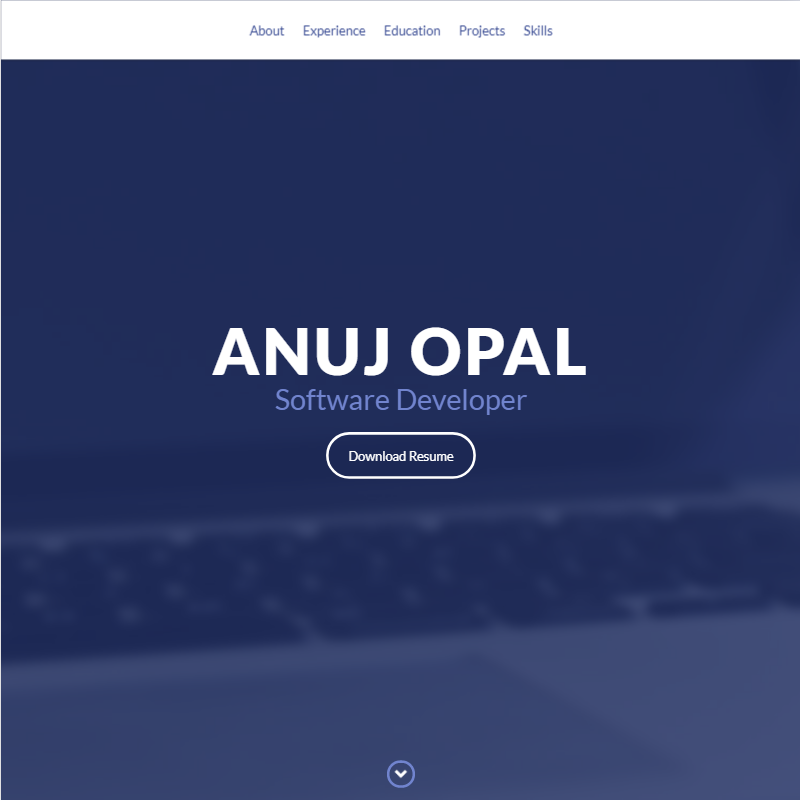
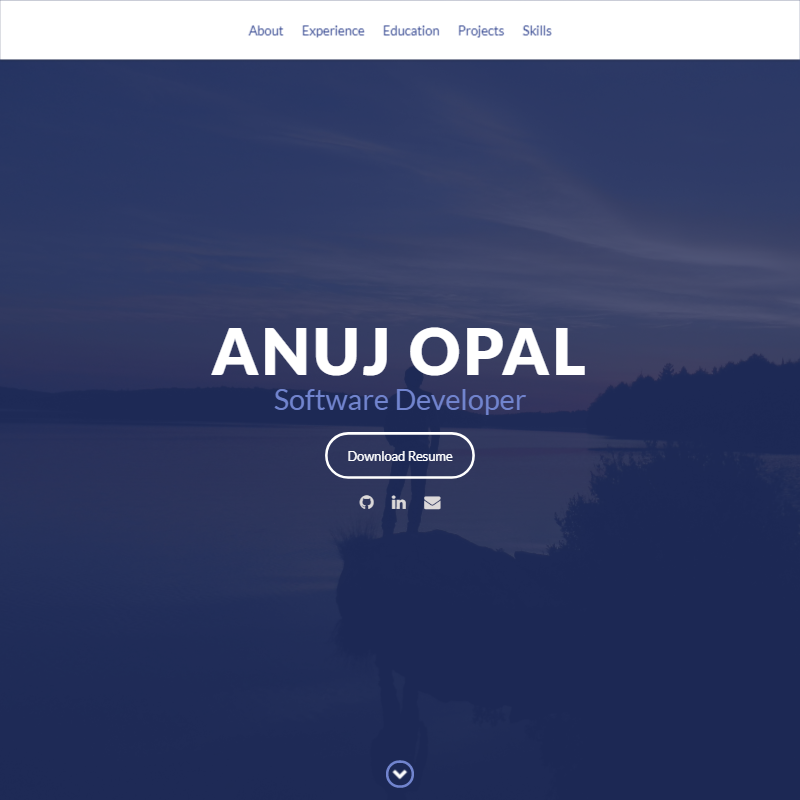
some more content and styles

diff --git a/css/styles.css b/css/styles.css
@@ -9,4 +9,4 @@
     Description: This file contains all the styles associated with the page
     that don't come from third party libraries. This file gets compiled using
     Gulp and send to the /css folder which is then loaded on the page.
-*/body{font-family:'Lato', sans-serif;font-size:16px}body.active{overflow:hidden;z-index:-1}.no-js #experience-timeline>div{background:#fff;padding:10px;margin-bottom:10px;border:1px solid #dcd9d9}.no-js #experience-timeline>div h3{font-size:1.5em;font-weight:300;color:#374054;display:inline-block;margin:0}.no-js #experience-timeline>div h4{font-size:1.2em;font-weight:300;color:#7e8890;margin:0 0 15px}.no-js #experience-timeline>div p{color:#74808a;font-size:0.9em;margin:0}.no-js #experience-timeline:after,.no-js #experience-timeline:before{content:none}@keyframes dropHeader{0%{transform:translateY(-100%)}100%{transform:translateY(0)}}header{position:fixed;top:0;left:0;right:0;text-align:center;z-index:100;animation-name:dropHeader;animation-iteration-count:1;animation-timing-function:ease;animation-duration:0.75s}header ul{display:inline-block;background:#fff;text-align:center;padding:1em;margin:0;width:100%;height:10%}header li{display:inline-block}header .social{display:inline-block}header a{display:block;color:#31448f;padding:10px}header a:hover{color:#243269;text-decoration:none;background:#eee;border-radius:4px}header a:focus{color:#31448f;text-decoration:none}header.active{display:block}header.sticky{position:fixed;z-index:999}#menu.active{display:block}#mobile-menu-open{display:none;cursor:pointer;position:fixed;right:15px;top:10px;color:#31448f;font-size:1.5em;z-index:20;padding:0 7px;border-radius:4px;background:#fff}#mobile-menu-close{display:none;text-align:right;width:100%;background:#fff;font-size:1.5em;padding-right:15px;padding-top:10px;cursor:pointer;color:#31448f}#mobile-menu-close span{font-size:0.5em;text-transform:uppercase}#mobile-menu-close i{vertical-align:middle}footer{padding:50px 0}.copyright{padding-top:20px}.copyright p{margin:0;color:#74808a}.top{text-align:center}.top span{cursor:pointer;display:block;margin:15px auto 0;width:35px;height:35px;border-radius:50%;border:3px solid #b9bfc4;text-align:center}.top i{color:#74808a}.social{text-align:right}.social ul{margin:5px 0 0;padding:0}.social li{display:inline-block;font-size:1.25em;list-style:none}.social a{display:block;color:#74808a;padding:10px}.social a:hover{color:#31448f}.btn-rounded-white{display:inline-block;color:#fff;padding:15px 25px;border:3px solid #fff;border-radius:30px;transition:.5s ease all}.btn-rounded-white:hover{color:#31448f;background:#fff;text-decoration:none}.shadow{box-shadow:0 1px 3px rgba(0,0,0,0.12),0 1px 2px rgba(0,0,0,0.24)}.shadow-large{box-shadow:0 3px 6px rgba(0,0,0,0.08),0 3px 6px rgba(0,0,0,0.15)}.heading{position:relative;display:inline-block;font-size:2em;font-weight:300;margin:0 0 30px}.heading:after{position:absolute;content:'';top:100%;height:1px;width:50px;left:0;right:0;margin:0 auto;background:#31448f}.background-alt{background:#f2f2f5}#lead{position:relative;height:100vh;min-height:500px;max-height:1080px;background:url("../images/lead-bg.jpg");background-size:cover;padding:15px;overflow:hidden}#lead-content{position:absolute;z-index:10;top:50%;left:50%;transform:translate(-50%, -50%);text-align:center}#lead-content h1,#lead-content h2{margin:0}#lead-content h1{color:#fff;font-weight:900;font-size:5em;text-transform:uppercase;letter-spacing:0.05em;line-height:0.9em}#lead-content h2{color:#7184ce;font-weight:500;font-size:2.25em;margin-bottom:15px}#lead-overlay{position:absolute;height:100%;width:100%;top:0;right:0;bottom:0;left:0;background:rgba(36,50,105,0.8);z-index:1}#lead-down{position:absolute;left:0;right:0;width:100%;text-align:center;z-index:10;bottom:15px;color:#fff}#lead-down span{cursor:pointer;display:block;margin:0 auto;width:35px;height:35px;border-radius:50%;border:3px solid #7184ce;text-align:center}#lead-down i{animation:pulsate 1.5s ease;animation-iteration-count:infinite;padding-top:5px}@keyframes pulsate{0%{transform:scale(1, 1)}50%{transform:scale(1.2, 1.2)}100%{transform:scale(1, 1)}}#about{padding:75px 15px;border-bottom:1px solid #dcd9d9}#about h2{color:#374054}#about p{color:#74808a;margin:0}#experience{padding:50px 15px;text-align:center;border-bottom:1px solid #dcd9d9}#experience h2{color:#374054}#experience-timeline{margin:30px auto 0;position:relative;max-width:1000px}#experience-timeline:before{position:absolute;content:'';top:0;bottom:0;left:303px;right:auto;height:100%;width:3px;background:#31448f;z-index:0}#experience-timeline:after{position:absolute;content:'';width:3px;height:40px;background:#31448f;background:linear-gradient(to bottom, #31448f, rgba(49,68,143,0));top:100%;left:303px}.vtimeline-content{margin-left:350px;background:#fff;border:1px solid #e6e6e6;padding:15px;border-radius:3px;text-align:left}.vtimeline-content img{width:10%;position:relative;float:right;top:-5px}.vtimeline-content h3{font-size:1.5em;font-weight:300;color:#374054;display:inline-block;margin:0}.vtimeline-content h4{font-size:1.2em;font-weight:300;color:#7e8890;margin:0 0 15px}.vtimeline-content p{color:#74808a;font-size:0.9em;margin:0}.vtimeline-point{position:relative;display:block;vertical-align:top;margin-bottom:30px}.vtimeline-icon{position:relative;color:#fff;width:50px;height:50px;background:#31448f;border-radius:50%;float:left;z-index:99;margin-left:280px}.vtimeline-icon i{display:block;font-size:2em;margin-top:10px}.vtimeline-date{width:260px;text-align:right;position:absolute;left:0;top:10px;font-weight:300;color:#374054}#education{padding:50px 15px 20px;border-bottom:1px solid #dcd9d9;text-align:center}#education h2{color:#374054;margin-bottom:50px}.education-block{max-width:700px;margin:0 auto 30px;padding:15px;border:1px solid #dcd9d9;text-align:left}.education-block h3{font-weight:500;float:left;margin:0;color:#374054}.education-block span{color:#74808a;float:right}.education-block h4{color:#74808a;clear:both;font-weight:500;margin:0 0 15px}.education-block p,.education-block ul{margin:0;color:#74808a;font-size:0.9em}.education-block ul{padding:0 0 0 15px}#projects{padding:50px 15px;border-bottom:1px solid #dcd9d9;text-align:center}#projects h2{color:#374054;margin-bottom:50px}.project{position:relative;max-width:900px;margin:0 auto 30px;overflow:hidden;background:#fff;border-radius:4px}.project-image{float:left}.project-image img{height:300px;width:300px}.project-info{position:absolute;top:50%;transform:translateY(-50%);margin-left:300px;padding:15px}.project-info h3{font-size:1.5em;font-weight:300;color:#374054;margin:0 0 15px}.project-info p{color:#74808a;margin:0 0 15px;font-size:0.9em}.no-image .project-info{position:relative;margin:0;padding:30px 15px;transform:none}#more-projects{display:none}#skills{padding:50px 15px;text-align:center}#skills h2{color:#374054;margin-bottom:50px}#skills ul{display:block;margin:0 auto;padding:0;max-width:800px}#skills li{display:inline-block;margin:7px;padding:5px 10px;color:#374054;background:#e4e4ea;list-style:none;cursor:default;font-size:1.2em}#contact{padding:50px 15px;background:#31448f;text-align:center}#contact h2{margin:0 0 15px;color:#fff;font-weight:500}#contact-form{max-width:500px;margin:0 auto}#contact-form input,#contact-form textarea{display:block;width:100%;padding:10px;border-radius:4px;border:none;margin-bottom:10px;background:#1d2956;color:#fff;transition:.5s ease all}#contact-form input::-webkit-input-placeholder,#contact-form textarea::-webkit-input-placeholder{color:#fff}#contact-form input:-moz-placeholder,#contact-form textarea:-moz-placeholder{color:#fff;opacity:1}#contact-form input::-moz-placeholder,#contact-form textarea::-moz-placeholder{color:#fff;opacity:1}#contact-form input:-ms-input-placeholder,#contact-form textarea:-ms-input-placeholder{color:#fff}#contact-form input:focus,#contact-form textarea:focus{outline:none;background:#101730}#contact-form textarea{height:150px;resize:none}#contact-form button{display:block;width:100%;background:#fff;border-radius:4px;padding:5px 10px;border:none;color:#31448f;font-weight:700;box-shadow:0 1px 3px rgba(0,0,0,0.12),0 1px 2px rgba(0,0,0,0.24);transition:.5s ease all}#contact-form button:hover{box-shadow:0 10px 20px rgba(0,0,0,0.19),0 6px 6px rgba(0,0,0,0.23)}.optional-section{padding:50px 15px;text-align:center;border-top:1px solid #dcd9d9}.optional-section h2{color:#374054}.optional-section-block{max-width:700px;margin:0 auto 30px;padding:15px;border:1px solid #dcd9d9;background:#fff;text-align:left}.optional-section-block h3{font-weight:500;margin:0 0 15px;color:#374054}.optional-section-block h4{color:#74808a;clear:both;font-weight:500;margin:0 0 15px}.optional-section-block p,.optional-section-block ul{margin:0 0 15px;color:#74808a;font-size:0.9em}.optional-section-block ul{padding:0 0 0 15px}@media only screen and (max-width: 750px){#experience-timeline:after,#experience-timeline:before{left:23px}.vtimeline-date{width:auto;text-align:left;position:relative;margin-bottom:15px;display:block;margin-left:70px}.vtimeline-icon{margin-left:0}.vtimeline-content{margin-left:70px}}@media only screen and (max-width: 992px){#lead{height:auto;min-height:auto;max-height:auto;padding:100px 15px}#lead-content{position:relative;transform:none;left:auto;top:auto}#lead-content h1{font-size:3em}#lead-content h2{font-size:1.75em}#about{text-align:center}#about p{text-align:left}}@media only screen and (max-width: 768px){header{position:fixed;display:none;z-index:999;animation:none;bottom:0;height:100%}#mobile-menu-close,#mobile-menu-open{display:block}#menu{height:100%;overflow-y:auto;box-shadow:none;border-radius:0;width:100%}#menu li{display:block;margin-bottom:10px}#lead-content h1{font-size:2em}#lead-content h2{font-size:1.3em}#lead-content a{padding:10px 20px}#lead-down{display:none}.education-block h3,.education-block span{float:none}.project-image{display:none}.project-info{position:relative;margin:0;padding:30px 15px;top:auto;transform:none}footer{text-align:center}.social{text-align:center}}@media only screen and (max-width: 480px){#lead-content h1{font-size:1.5em}#lead-content h2{font-size:1em}#lead-content a{font-size:0.9em;padding:5px 10px}}
+*/body{font-family:'Lato', sans-serif;font-size:16px}body.active{overflow:hidden;z-index:-1}.no-js #experience-timeline>div{background:#fff;padding:10px;margin-bottom:10px;border:1px solid #dcd9d9}.no-js #experience-timeline>div h3{font-size:1.5em;font-weight:300;color:#374054;display:inline-block;margin:0}.no-js #experience-timeline>div h4{font-size:1.2em;font-weight:300;color:#7e8890;margin:0 0 15px}.no-js #experience-timeline>div p{color:#74808a;font-size:0.9em;margin:0}.no-js #experience-timeline:after,.no-js #experience-timeline:before{content:none}@keyframes dropHeader{0%{transform:translateY(-100%)}100%{transform:translateY(0)}}header{position:fixed;top:0;left:0;right:0;text-align:center;z-index:100;animation-name:dropHeader;animation-iteration-count:1;animation-timing-function:ease;animation-duration:0.75s}header ul{display:inline-block;background:#fff;text-align:center;padding:1em;margin:0;width:100%;height:10%}header li{display:inline-block}header .social{display:inline-block}header a{display:block;color:#31448f;padding:10px}header a:hover{color:#243269;text-decoration:none;background:#eee;border-radius:4px}header a:focus{color:#31448f;text-decoration:none}header.active{display:block}header.sticky{position:fixed;z-index:999}#menu.active{display:block}#mobile-menu-open{display:none;cursor:pointer;position:fixed;right:15px;top:10px;color:#31448f;font-size:1.5em;z-index:20;padding:0 7px;border-radius:4px;background:#fff}#mobile-menu-close{display:none;text-align:right;width:100%;background:#fff;font-size:1.5em;padding-right:15px;padding-top:10px;cursor:pointer;color:#31448f}#mobile-menu-close span{font-size:0.5em;text-transform:uppercase}#mobile-menu-close i{vertical-align:middle}footer{padding:50px 0}.copyright{padding-top:20px}.copyright p{margin:0;color:#74808a}.top{text-align:center}.top span{cursor:pointer;display:block;margin:15px auto 0;width:35px;height:35px;border-radius:50%;border:3px solid #b9bfc4;text-align:center}.top i{color:#74808a}.social{text-align:right}.social ul{margin:5px 0 0;padding:0}.social li{display:inline-block;font-size:1.25em;list-style:none}.social a{display:block;color:#74808a;padding:10px}.social a:hover{color:#31448f}.btn-rounded-white{display:inline-block;color:#fff;padding:15px 25px;border:3px solid #fff;border-radius:30px;transition:.5s ease all}.btn-rounded-white:hover{color:#31448f;background:#fff;text-decoration:none}.shadow{box-shadow:0 1px 3px rgba(0,0,0,0.12),0 1px 2px rgba(0,0,0,0.24)}.shadow-large{box-shadow:0 3px 6px rgba(0,0,0,0.08),0 3px 6px rgba(0,0,0,0.15)}.heading{position:relative;display:inline-block;font-size:2em;font-weight:300;margin:0 0 30px}.heading:after{position:absolute;content:'';top:100%;height:1px;width:50px;left:0;right:0;margin:0 auto;background:#31448f}.background-alt{background:#f2f2f5}#lead{position:relative;height:100vh;min-height:500px;max-height:1080px;background:url("../images/lead.jpg");background-size:cover;padding:15px;overflow:hidden;top:-10%;background-attachment:fixed;background-repeat:no-repeat;background-size:cover}#lead-content{position:absolute;z-index:10;top:50%;left:50%;transform:translate(-50%, -50%);text-align:center}#lead-content h1,#lead-content h2{margin:0}#lead-content h1{color:#fff;font-weight:900;font-size:5em;text-transform:uppercase;letter-spacing:0.05em;line-height:0.9em}#lead-content h2{color:#7184ce;font-weight:500;font-size:2.25em;margin-bottom:15px}#lead-content .social{position:absolute;width:100%;text-align:center}#lead-content .social a{color:#dcd9d9}#lead-content .social a:hover{color:#31448f;text-decoration:none}#lead-overlay{position:absolute;height:100%;width:100%;top:0;right:0;bottom:0;left:0;background:rgba(36,50,105,0.8);z-index:1}#lead-down{position:absolute;left:0;right:0;width:100%;text-align:center;z-index:10;bottom:15px;color:#fff}#lead-down span{cursor:pointer;display:block;margin:0 auto;width:35px;height:35px;border-radius:50%;border:3px solid #7184ce;text-align:center}#lead-down i{animation:pulsate 1.5s ease;animation-iteration-count:infinite;padding-top:5px}@keyframes pulsate{0%{transform:scale(1, 1)}50%{transform:scale(1.2, 1.2)}100%{transform:scale(1, 1)}}#about{padding:75px 15px;border-bottom:1px solid #dcd9d9}#about h2{color:#374054}#about p{color:#74808a;margin:0}#experience{padding:50px 15px;text-align:center;border-bottom:1px solid #dcd9d9}#experience h2{color:#374054}#experience-timeline{margin:30px auto 0;position:relative;max-width:1000px}#experience-timeline:before{position:absolute;content:'';top:0;bottom:0;left:303px;right:auto;height:100%;width:3px;background:#31448f;z-index:0}#experience-timeline:after{position:absolute;content:'';width:3px;height:40px;background:#31448f;background:linear-gradient(to bottom, #31448f, rgba(49,68,143,0));top:100%;left:303px}.vtimeline-content{margin-left:350px;background:#fff;border:1px solid #e6e6e6;padding:15px;border-radius:3px;text-align:left}.vtimeline-content img{width:10%;position:relative;float:right;top:-5px}.vtimeline-content h3{font-size:1.5em;font-weight:300;color:#374054;display:inline-block;margin:0}.vtimeline-content h4{font-size:1.2em;font-weight:300;color:#7e8890;margin:0 0 15px}.vtimeline-content p{color:#74808a;font-size:0.9em;margin:0}.vtimeline-point{position:relative;display:block;vertical-align:top;margin-bottom:30px}.vtimeline-icon{position:relative;color:#fff;width:50px;height:50px;background:#31448f;border-radius:50%;float:left;z-index:99;margin-left:280px}.vtimeline-icon i{display:block;font-size:2em;margin-top:10px}.vtimeline-date{width:260px;text-align:right;position:absolute;left:0;top:10px;font-weight:300;color:#374054}#education{padding:50px 15px 20px;border-bottom:1px solid #dcd9d9;text-align:center}#education h2{color:#374054;margin-bottom:50px}.education-block{max-width:700px;margin:0 auto 30px;padding:15px;border:1px solid #dcd9d9;text-align:left}.education-block h3{font-weight:500;float:left;margin:0;color:#374054}.education-block span{color:#74808a;float:right}.education-block h4{color:#74808a;clear:both;font-weight:500;margin:0 0 15px}.education-block p,.education-block ul{margin:0;color:#74808a;font-size:0.9em}.education-block ul{padding:0 0 0 15px}#projects{padding:50px 15px;border-bottom:1px solid #dcd9d9;text-align:center}#projects h2{color:#374054;margin-bottom:50px}.project{position:relative;max-width:900px;margin:0 auto 30px;overflow:hidden;background:#fff;border-radius:4px}.project-image{float:left}.project-image img{height:300px;width:300px}.project-info{position:absolute;top:50%;transform:translateY(-50%);margin-left:300px;padding:15px}.project-info h3{font-size:1.5em;font-weight:300;color:#374054;margin:0 0 15px}.project-info p{color:#74808a;margin:0 0 15px;font-size:0.9em}.no-image .project-info{position:relative;margin:0;padding:30px 15px;transform:none}#more-projects{display:none}#skills{padding:50px 15px;text-align:center}#skills h2{color:#374054;margin-bottom:50px}#skills ul{display:block;margin:0 auto;padding:0;max-width:800px}#skills li{display:inline-block;margin:7px;padding:5px 10px;color:#374054;background:#e4e4ea;list-style:none;cursor:default;font-size:1.2em}#contact{padding:50px 15px;background:#31448f;text-align:center}#contact h2{margin:0 0 15px;color:#fff;font-weight:500}#contact-form{max-width:500px;margin:0 auto}#contact-form input,#contact-form textarea{display:block;width:100%;padding:10px;border-radius:4px;border:none;margin-bottom:10px;background:#1d2956;color:#fff;transition:.5s ease all}#contact-form input::-webkit-input-placeholder,#contact-form textarea::-webkit-input-placeholder{color:#fff}#contact-form input:-moz-placeholder,#contact-form textarea:-moz-placeholder{color:#fff;opacity:1}#contact-form input::-moz-placeholder,#contact-form textarea::-moz-placeholder{color:#fff;opacity:1}#contact-form input:-ms-input-placeholder,#contact-form textarea:-ms-input-placeholder{color:#fff}#contact-form input:focus,#contact-form textarea:focus{outline:none;background:#101730}#contact-form textarea{height:150px;resize:none}#contact-form button{display:block;width:100%;background:#fff;border-radius:4px;padding:5px 10px;border:none;color:#31448f;font-weight:700;box-shadow:0 1px 3px rgba(0,0,0,0.12),0 1px 2px rgba(0,0,0,0.24);transition:.5s ease all}#contact-form button:hover{box-shadow:0 10px 20px rgba(0,0,0,0.19),0 6px 6px rgba(0,0,0,0.23)}.optional-section{padding:50px 15px;text-align:center;border-top:1px solid #dcd9d9}.optional-section h2{color:#374054}.optional-section-block{max-width:700px;margin:0 auto 30px;padding:15px;border:1px solid #dcd9d9;background:#fff;text-align:left}.optional-section-block h3{font-weight:500;margin:0 0 15px;color:#374054}.optional-section-block h4{color:#74808a;clear:both;font-weight:500;margin:0 0 15px}.optional-section-block p,.optional-section-block ul{margin:0 0 15px;color:#74808a;font-size:0.9em}.optional-section-block ul{padding:0 0 0 15px}@media only screen and (max-width: 750px){#experience-timeline:after,#experience-timeline:before{left:23px}.vtimeline-date{width:auto;text-align:left;position:relative;margin-bottom:15px;display:block;margin-left:70px}.vtimeline-icon{margin-left:0}.vtimeline-content{margin-left:70px}}@media only screen and (max-width: 992px){#lead{height:auto;min-height:auto;max-height:auto;padding:100px 15px}#lead-content{position:relative;transform:none;left:auto;top:auto}#lead-content h1{font-size:3em}#lead-content h2{font-size:1.75em}#about{text-align:center}#about p{text-align:left}}@media only screen and (max-width: 768px){header{position:fixed;display:none;z-index:999;animation:none;bottom:0;height:100%}#mobile-menu-close,#mobile-menu-open{display:block}#menu{height:100%;overflow-y:auto;box-shadow:none;border-radius:0;width:100%}#menu li{display:block;margin-bottom:10px}#lead-content h1{font-size:2em}#lead-content h2{font-size:1.3em}#lead-content a{padding:10px 20px}#lead-down{display:none}.education-block h3,.education-block span{float:none}.project-image{display:none}.project-info{position:relative;margin:0;padding:30px 15px;top:auto;transform:none}footer{text-align:center}.social{text-align:center}}@media only screen and (max-width: 480px){#lead-content h1{font-size:1.5em}#lead-content h2{font-size:1em}#lead-content a{font-size:0.9em;padding:5px 10px}}

diff --git a/index.html b/index.html
@@ -51,6 +51,19 @@
       <h1>Anuj Opal</h1>
       <h2>Software Developer</h2>
       <a download href="Anuj Opal - Resume.pdf" class="btn-rounded-white">Download Resume</a>
+      <div class="col-sm-5 social">
+        <ul>
+          <li>
+            <a href="https://github.com/aopal/" target="_blank"><i class="fa fa-github" aria-hidden="true"></i></a>
+          </li>
+          <li>
+            <a href="https://www.linkedin.com/in/anuj-opal-19a463108/" target="_blank"><i class="fa fa-linkedin" aria-hidden="true"></i></a>
+          </li>
+          <li>
+            <a href="mailto:anuj@aopal.ca" target="_blank"><i class="fa fa-envelope" aria-hidden="true"></i></a>
+          </li>
+        </ul>
+      </div>
     </div>
     <!-- End #lead-content -->
 
@@ -130,9 +143,9 @@
     <div class="education-block">
       <h3>University of Waterloo</h3>
       <span class="education-date">Sept 2015 - Present</span>
-      <h4>Honours Bachelor of Computer Science, Co-op</h4>
+      <h4>Candidate for Honours Bachelor of Computer Science, Co-op</h4>
       <p>
-        Lorem ipsum dolor sit amet, consectetur adipiscing elit. Curabitur in iaculis ex. Etiam volutpat laoreet urna. Morbi ut tortor nec nulla commodo malesuada sit amet vel lacus. Fusce eget efficitur libero. Morbi dapibus porta quam laoreet placerat.
+        Currently on Co-op after my 2B term. I'm involved with both the UWaterloo Creative Writing Club and mathNEWS, a student newspaper run by the Mathematics Society. I'm also minoring in English Language and Literature.
       </p>
     </div>
     <!-- End .education-block -->
@@ -202,14 +215,16 @@
       <li>CSS</li>
       <li>AngularJs</li>
       <li>React</li>
-      <li>Node.js</li>
+      <li>node.js</li>
       <li>Electron</li>
+      <li>Python</li>
       <li>Ruby</li>
       <li>Rails</li>
       <li>MySQL</li>
       <li>C</li>
       <li>C++</li>
       <li>AWS</li>
+      <li>Docker</li>
       <li>Lua</li>
       <li>Matlab</li>
     </ul>
@@ -246,7 +261,7 @@
         <div class="col-sm-5 social">
           <ul>
             <li>
-              <a href="https://github.com/" target="_blank"><i class="fa fa-github" aria-hidden="true"></i></a>
+              <a href="https://github.com/aopal/" target="_blank"><i class="fa fa-github" aria-hidden="true"></i></a>
             </li>
             <li>
               <a href="https://www.linkedin.com/in/anuj-opal-19a463108/" target="_blank"><i class="fa fa-linkedin" aria-hidden="true"></i></a>

diff --git a/scss/styles.scss b/scss/styles.scss
@@ -341,10 +341,15 @@ footer {
   height: 100vh;
   min-height: 500px;
   max-height: 1080px;
-  background: url("../images/lead-bg.jpg");
+  background: url("../images/lead.jpg");
   background-size: cover;
   padding: 15px;
   overflow: hidden;
+  top: -10%;
+  
+  background-attachment: fixed;
+  background-repeat: no-repeat;
+  background-size: cover;
 }
 
 #lead-content {
@@ -374,6 +379,21 @@ footer {
     font-weight: 500;
     font-size: 2.25em;
     margin-bottom: 15px;
+  }
+  
+  .social {
+    position: absolute;
+    width: 100%;
+    text-align: center;
+    
+    a {
+      color: $border;
+      
+      &:hover {
+        color: $base-color;
+        text-decoration: none;
+      }
+    }
   }
 }
 
